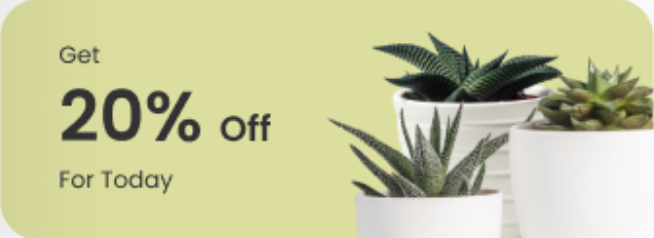
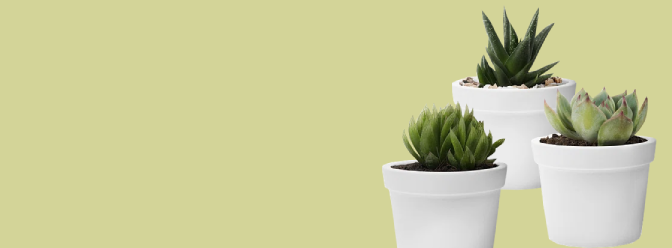
Update Offer section

diff --git a/shared/src/commonMain/kotlin/com/vml/tutorial/plantshop/plants/presentation/home/components/HomeScreen.kt b/shared/src/commonMain/kotlin/com/vml/tutorial/plantshop/plants/presentation/home/components/HomeScreen.kt
@@ -37,15 +37,21 @@ import androidx.compose.ui.Modifier
 import androidx.compose.ui.draw.clip
 import androidx.compose.ui.graphics.Color
 import androidx.compose.ui.layout.ContentScale
+import androidx.compose.ui.text.buildAnnotatedString
+import androidx.compose.ui.text.withStyle
 import androidx.compose.ui.unit.dp
 import com.vml.tutorial.plantshop.MR.images.ic_flower
 import com.vml.tutorial.plantshop.MR.images.ic_green_plant
 import com.vml.tutorial.plantshop.MR.images.ic_indoor_plant
 import com.vml.tutorial.plantshop.MR.images.img_offer
+import com.vml.tutorial.plantshop.MR.strings.discount_percentage
 import com.vml.tutorial.plantshop.MR.strings.discover
 import com.vml.tutorial.plantshop.MR.strings.flowers
+import com.vml.tutorial.plantshop.MR.strings.for_today
+import com.vml.tutorial.plantshop.MR.strings.get
 import com.vml.tutorial.plantshop.MR.strings.green_plants
 import com.vml.tutorial.plantshop.MR.strings.indoor_plants
+import com.vml.tutorial.plantshop.MR.strings.off
 import com.vml.tutorial.plantshop.MR.strings.offer_image_description
 import com.vml.tutorial.plantshop.MR.strings.profile_photo_description
 import com.vml.tutorial.plantshop.MR.strings.search
@@ -57,6 +63,7 @@ import com.vml.tutorial.plantshop.plants.presentation.home.HomeScreenEvent
 import com.vml.tutorial.plantshop.plants.presentation.home.HomeScreenState
 import com.vml.tutorial.plantshop.plants.presentation.home.components.HomeScreenConstants.DEFAULT_SEARCH_QUERY
 import com.vml.tutorial.plantshop.plants.presentation.home.components.HomeScreenConstants.GRID_COLUMN_COUNT
+import com.vml.tutorial.plantshop.plants.presentation.home.components.HomeScreenConstants.OFFER_PERCENTAGE
 import com.vml.tutorial.plantshop.plants.presentation.home.components.HomeScreenConstants.SINGLE_GRID_COLUMN_SPAN
 import com.vml.tutorial.plantshop.plants.presentation.plantList.ItemListEvent
 import com.vml.tutorial.plantshop.plants.presentation.plantList.itemListGrid
@@ -189,15 +196,33 @@ private fun CategoryItem(
 
 @Composable
 private fun ProductOffer(modifier: Modifier = Modifier, onClick: () -> Unit) {
-    Image(painter = painterResource(img_offer),
-        contentDescription = UiText.StringRes(offer_image_description).asString(),
-        contentScale = ContentScale.FillWidth,
-        modifier = modifier.fillMaxWidth().clip(RoundedCornerShape(16.dp)).clickable { onClick() })
+    Box {
+        Image(painter = painterResource(img_offer),
+            contentDescription = UiText.StringRes(offer_image_description).asString(),
+            contentScale = ContentScale.FillWidth,
+            modifier = modifier.fillMaxWidth().clip(RoundedCornerShape(16.dp))
+                .clickable { onClick() })
+        Column(modifier = Modifier.padding(vertical = 16.dp, horizontal = 32.dp)) {
+            Text(text = UiText.StringRes(get).asString(), style = Typography.bodyMedium)
+            Text(buildAnnotatedString {
+                withStyle(style = Typography.headlineLarge.toSpanStyle()) {
+                    append(
+                        text = UiText.StringRes(discount_percentage, listOf(OFFER_PERCENTAGE))
+                            .asString()
+                    )
+                }
+                withStyle(style = Typography.titleLarge.toSpanStyle()) {
+                    append(text = UiText.StringRes(off).asString())
+                }
+            })
+            Text(text = UiText.StringRes(for_today).asString(), style = Typography.bodyMedium)
+        }
+    }
 }
-
 
 object HomeScreenConstants {
     const val GRID_COLUMN_COUNT = 2
     const val SINGLE_GRID_COLUMN_SPAN = GRID_COLUMN_COUNT
     const val DEFAULT_SEARCH_QUERY = ""
+    const val OFFER_PERCENTAGE = 20
 }
